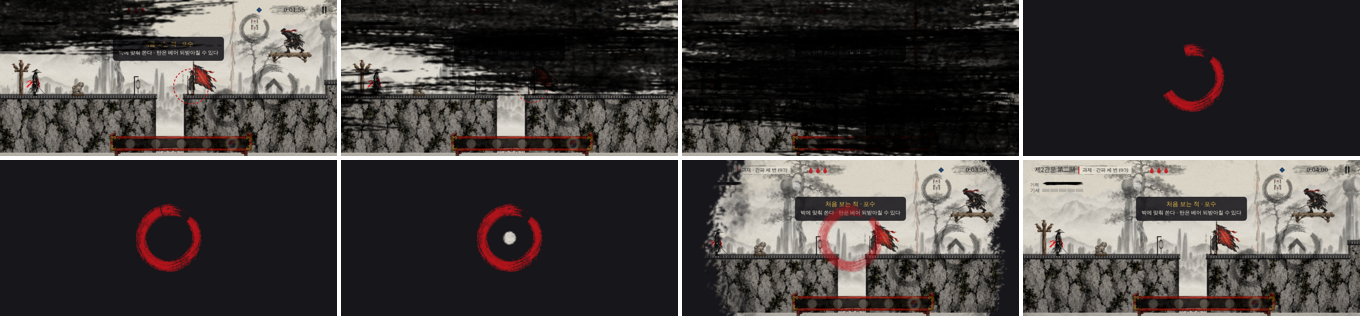
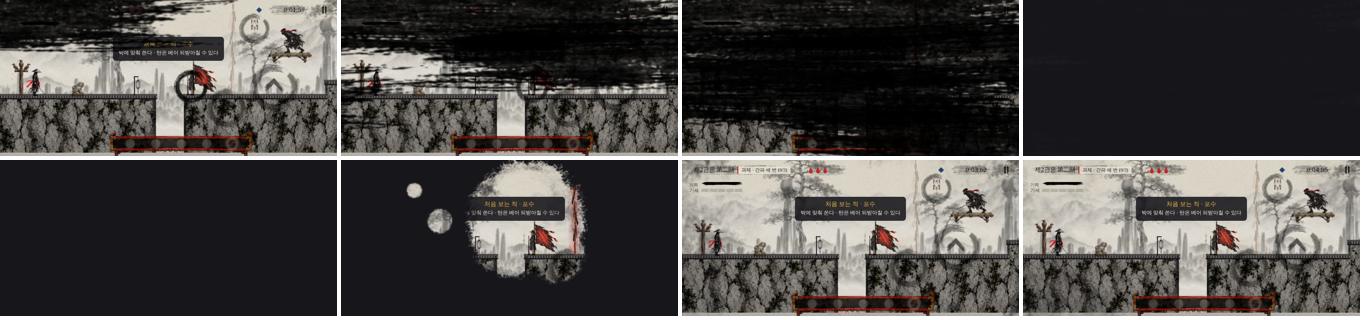
Drop the red 원상: transition is strokes then soak-away (1.0s), first-seen foe ring in ink
Claude-Session: https://claude.ai/code/session_01Rc1cVb1vkCQfdutHoe7fgf

diff --git a/js/game.js b/js/game.js
@@ -3382,9 +3382,9 @@ function render(rdt) {
   if (SPR.perkfx) for (const c of clones) { ctx.globalAlpha = .45 + .15 * Math.sin(performance.now() / 40); const cf = CF("clone"); if (cf && SPR[cf[0]]) { drawSprite(cf[0], cf[1], c.x, c.y, HERO_H * 1.15 / SPR[cf[0]].f[cf[1]].h, c.face < 0, .5, false, 1); ctx.globalAlpha = 1; continue; } drawSprite("perkfx", PF.clone, c.x, c.y, kOf("hero3", H3.idle, HERO_H * 1.08) * 1.1, c.face < 0, .5, false, 1); ctx.globalAlpha = 1; }
   drawVfx(pal, true, vw);   // effects that belong behind the body (the 납도 ink at the feet)
   drawPet(pal); drawAmmo();
-  { const rr = redRing(); for (const e of enemies) if (e.alive && e.introUntil > songPos) { const k = (e.introUntil - songPos) / 2.5, r = Math.max(e.w, e.h) * .8 + 8, cx = e.x + e.w / 2, cy = e.y + e.h / 2, draw = Math.min(1, (1 - k) * 4);   // 처음 보는 적: a red 원상 brushed round it
+  { const rf = SPR.ui && SPR.ui.f[0]; for (const e of enemies) if (e.alive && e.introUntil > songPos) { const k = (e.introUntil - songPos) / 2.5, r = Math.max(e.w, e.h) * .8 + 8, cx = e.x + e.w / 2, cy = e.y + e.h / 2, draw = Math.min(1, (1 - k) * 4);   // 처음 보는 적: an ink 원상 brushed round it
     ctx.globalAlpha = Math.min(1, k * 2) * .9;
-    if (rr) { ctx.save(); ctx.translate(cx, cy); ctx.rotate(songPos * .6); ctx.beginPath(); ctx.moveTo(0, 0); ctx.arc(0, 0, r * 1.2, -1.8, -1.8 + 6.283 * draw); ctx.closePath(); ctx.clip(); ctx.drawImage(rr, -r, -r, r * 2, r * 2); ctx.restore(); }
+    if (rf) { ctx.save(); ctx.translate(cx, cy); ctx.rotate(songPos * .6); ctx.beginPath(); ctx.moveTo(0, 0); ctx.arc(0, 0, r * 1.2, -1.8, -1.8 + 6.283 * draw); ctx.closePath(); ctx.clip(); ctx.drawImage(SPR.ui.img, rf.x, rf.y, rf.w, rf.h, -r, -r, r * 2, r * 2); ctx.restore(); }
     else { ctx.strokeStyle = SEAL; ctx.lineWidth = 2; ctx.beginPath(); ctx.arc(cx, cy, r, 0, 6.283); ctx.stroke(); }
     ctx.globalAlpha = 1; } }
   if (P && (state === "play" || state === "pause" || state === "result" || state === "dead")) drawPlayer(pal);
@@ -4653,25 +4653,23 @@ function drawHubLabels(pal) { // the names of the stations, painted on small boa
     else { ctx.fillStyle = near ? "rgba(195,22,28,.92)" : "rgba(23,22,26,.72)"; ctx.fillRect(x - w / 2, y - 10, w, 20); ctx.fillStyle = "#f3ede0"; }
     ctx.fillText(st.name, x, y + 1); }
   const dk = hubDeco(); if (LV.hub) for (let k = 0; k < HUB_SLOTS.length; k++) if (!dk.slots[k]) { const x = HUB_SLOTS[k].tx * T + 16, y = HUB_SLOTS[k].ty * T - 4, near = hubNear && hubNear.slot === k;
-    const rf = SPR.ui && SPR.ui.f[0], rr = near && redRing(); if (rf) { ctx.globalAlpha = near ? .9 : .3; if (rr) ctx.drawImage(rr, x - 20, y - 6, 40, 12); else ctx.drawImage(SPR.ui.img, rf.x, rf.y, rf.w, rf.h, x - 20, y - 6, 40, 12); ctx.globalAlpha = 1; }   // an empty spot: a flattened brush circle on the ground
+    const rf = SPR.ui && SPR.ui.f[0]; if (rf) { ctx.globalAlpha = near ? .85 : .3; ctx.drawImage(SPR.ui.img, rf.x, rf.y, rf.w, rf.h, x - 20, y - 6, 40, 12); ctx.globalAlpha = 1; }   // an empty spot: a flattened brush circle on the ground
     else { ctx.strokeStyle = near ? "rgba(195,22,28,.8)" : "rgba(23,22,26,.3)"; ctx.lineWidth = 1.5; ctx.beginPath(); ctx.ellipse(x, y, 18, 5, 0, 0, 7); ctx.stroke(); } }
 }
 // ---------- screens ----------
 // 먹 번짐 (scene change), painted with the game's own brushes: four dry-brush strokes lay ink across the page,
-// a red 원상 is drawn in one turn of the wrist, then the ink soaks away from the middle in ragged blots and the circle fades last
-let wipeRun = null, wipeRed = null;
-function redRing() { const ui = SPR.ui; if (!ui) return null; if (!wipeRed) { const f = ui.f[0], o = document.createElement("canvas"); o.width = f.w; o.height = f.h; const x = o.getContext("2d"); x.drawImage(ui.img, f.x, f.y, f.w, f.h, 0, 0, f.w, f.h); x.globalCompositeOperation = "source-in"; x.fillStyle = "#b8141b"; x.fillRect(0, 0, f.w, f.h); wipeRed = o; } return wipeRed; }   // the 원상 in 주홍
+// then the ink soaks away from the middle in ragged blots
+let wipeRun = null;
 function inkWipe() {
   const cvW = $("wipe"); if (!cvW || !cvW.getContext) return;
   const ui = SPR.ui, calm = settings.calm || matchMedia("(prefers-reduced-motion: reduce)").matches || !ui;
   const k = .6, w = Math.ceil(innerWidth * k), h = Math.ceil(innerHeight * k);
   cvW.width = w; cvW.height = h; const c = cvW.getContext("2d");
-  redRing();
   const R = Math.random, J = Array.from({ length: 40 }, () => R());
-  const D = calm ? .4 : 1.2, diag = Math.hypot(w, h), cx = w / 2, cy = h / 2;
+  const D = calm ? .4 : 1.0, diag = Math.hypot(w, h), cx = w / 2, cy = h / 2;
   const clamp = x => Math.min(1, Math.max(0, x)), easeO = x => 1 - Math.pow(1 - clamp(x), 3), easeIO = x => { x = clamp(x); return x < .5 ? 4 * x * x * x : 1 - Math.pow(-2 * x + 2, 3) / 2; };
   const strokes = [0, 1, 2, 3].map(j => ({ y: h * (j + .5) / 4 + (J[j] - .5) * h * .06, rot: (J[j + 4] - .5) * .09, dir: j % 2 ? -1 : 1, t0: j * .055, th: h / 4 * 2.3 }));
-  const blots = Array.from({ length: 6 }, (_, i) => ({ x: w * (.15 + J[i + 10] * .7), y: h * (.15 + J[i + 16] * .7), t0: .7 + J[i + 22] * .12, r: diag * (.18 + J[i + 28] * .14), rot: J[i + 34] * 6.28 }));
+  const blots = Array.from({ length: 6 }, (_, i) => ({ x: w * (.15 + J[i + 10] * .7), y: h * (.15 + J[i + 16] * .7), t0: .52 + J[i + 22] * .12, r: diag * (.18 + J[i + 28] * .14), rot: J[i + 34] * 6.28 }));
   const me = {}; if (wipeRun) cancelAnimationFrame(wipeRun.raf); wipeRun = me;
   const t0 = performance.now(); cvW.style.visibility = "visible";
   const sprite = (i, x, y, sw, sh, rot) => { const f = ui.f[i]; c.save(); c.translate(x, y); c.rotate(rot); c.drawImage(ui.img, f.x, f.y, f.w, f.h, -sw / 2, -sh / 2, sw, sh); c.restore(); };
@@ -4686,14 +4684,10 @@ function inkWipe() {
       const f = ui.f[2]; c.drawImage(ui.img, f.x, f.y, f.w, f.h, -len / 2, -st.th / 2, len, st.th); c.restore(); }
     const fill = easeO((t - .26) / .14); if (fill > 0) { c.globalAlpha = fill; c.fillStyle = "#17161a"; c.fillRect(0, 0, w, h); c.globalAlpha = 1; }   // the dry gaps fill as the ink spreads
     // 2. the ink soaks away: painted blots punched out of the page, the middle one first
-    if (t > .62) { c.globalCompositeOperation = "destination-out";
-      const q = easeIO((t - .62) / (D - .62 - .05)), s = q * diag * 1.5; if (s > 1) sprite(1, cx, cy, s, s * 1.03, J[38] * 6.28);
+    if (t > .45) { c.globalCompositeOperation = "destination-out";
+      const q = easeIO((t - .45) / (D - .45 - .05)), s = q * diag * 1.5; if (s > 1) sprite(1, cx, cy, s, s * 1.03, J[38] * 6.28);
       for (const b of blots) { const g = easeO((t - b.t0) / .35); if (g > 0) sprite(1, b.x, b.y, b.r * 2 * g, b.r * 2 * g, b.rot); }
       c.globalCompositeOperation = "source-over"; }
-    // 3. 원상: one red turn of the brush over the dark, lingering a moment over the new place
-    if (wipeRed && t > .3) { const q = easeO((t - .3) / .3), fade = 1 - clamp((t - .78) / .3), sz = Math.min(w, h) * .46;
-      c.save(); c.globalAlpha = fade; c.beginPath(); c.moveTo(cx, cy); c.arc(cx, cy, sz, -Math.PI / 2 - .25, -Math.PI / 2 - .25 + Math.PI * 2 * q); c.closePath(); c.clip();
-      c.drawImage(wipeRed, cx - sz / 2, cy - sz / 2 * 1.02, sz, sz * 1.02); c.restore(); }
     me.raf = requestAnimationFrame(frame);
   };
   me.raf = requestAnimationFrame(frame);

diff --git a/index.html b/index.html
@@ -11,14 +11,14 @@
 <meta name="apple-mobile-web-app-status-bar-style" content="black-translucent">
 <meta name="apple-mobile-web-app-title" content="천고">
 <link rel="manifest" href="manifest.webmanifest">
-<link rel="icon" href="icons/icon-192.png?v=10031100">
-<link rel="apple-touch-icon" href="icons/apple-touch-icon.png?v=10031100">
+<link rel="icon" href="icons/icon-192.png?v=10031200">
+<link rel="apple-touch-icon" href="icons/apple-touch-icon.png?v=10031200">
 <link rel="preconnect" href="https://fonts.googleapis.com">
 <link rel="preconnect" href="https://fonts.gstatic.com" crossorigin>
 <link rel="stylesheet" href="https://fonts.googleapis.com/css2?family=Song+Myung&display=swap">
 <!-- hanja: Song Myung has none, so Nanum Myeongjo is fetched for just the characters the game shows -->
 <link rel="stylesheet" href="https://fonts.googleapis.com/css2?family=Nanum+Myeongjo&display=swap&text=%E4%B8%80%E4%B8%89%E4%B8%8A%E4%B8%8B%E4%B8%8D%E4%B8%99%E4%B8%9E%E4%B8%AD%E4%B8%B8%E4%B8%B9%E4%B8%BB%E4%B9%99%E4%B9%9D%E4%BA%82%E4%BA%8C%E4%BA%94%E4%BA%95%E4%BA%AD%E4%BF%83%E4%BF%AE%E5%81%87%E5%81%9C%E5%83%A7%E5%85%89%E5%85%A5%E5%85%A9%E5%85%AD%E5%85%B5%E5%85%B7%E5%86%A4%E5%86%B6%E5%86%B7%E5%87%8C%E5%88%80%E5%88%83%E5%88%86%E5%88%87%E5%88%91%E5%88%9D%E5%88%BA%E5%89%9B%E5%8A%8D%E5%8A%9B%E5%8A%9F%E5%8B%95%E5%8B%9D%E5%8B%A2%E5%8D%83%E5%8D%B4%E5%8D%B7%E5%8E%84%E5%8F%8D%E5%8F%A3%E5%8F%AF%E5%90%8D%E5%90%B8%E5%91%B5%E5%91%BD%E5%9B%9B%E5%9B%9E%E5%9C%B0%E5%9D%90%E5%A0%82%E5%A1%94%E5%A1%9E%E5%A2%83%E5%A2%93%E5%A2%9C%E5%A3%81%E5%A3%87%E5%A3%9E%E5%A4%A7%E5%A4%A9%E5%A4%B7%E5%A5%A7%E5%A5%AA%E5%A5%B3%E5%A6%99%E5%AD%97%E5%AD%A4%E5%AE%88%E5%AE%97%E5%AF%82%E5%AF%9E%E5%B0%84%E5%B0%87%E5%B0%8E%E5%B0%BE%E5%B1%88%E5%B1%B1%E5%B6%BA%E5%B7%AB%E5%B7%AE%E5%B8%B3%E5%B8%B6%E5%B9%95%E5%B9%B3%E5%B9%BB%E5%BA%AB%E5%BC%93%E5%BC%95%E5%BD%88%E5%BD%B1%E5%BE%8B%E5%BE%90%E5%BE%91%E5%BF%83%E5%BF%85%E5%BF%B5%E6%80%92%E6%80%A5%E6%81%AF%E6%87%89%E6%88%90%E6%88%B0%E6%88%BF%E6%89%80%E6%89%87%E6%89%8B%E6%89%93%E6%8B%8D%E6%8B%94%E6%8C%81%E6%8D%AE%E6%8E%A5%E6%8E%A8%E6%8F%9B%E6%93%8A%E6%94%B6%E6%95%A3%E6%96%A4%E6%96%AC%E6%96%B7%E6%97%8B%E6%98%87%E6%98%8E%E6%98%9F%E6%9A%B4%E6%9B%89%E6%9B%B8%E6%9C%88%E6%9C%9B%E6%9C%AC%E6%9D%BF%E6%9E%97%E6%A1%B6%E6%A2%85%E6%A2%AF%E6%A5%AD%E6%A7%8C%E6%A7%8D%E6%A8%93%E6%A9%9F%E6%AD%A2%E6%AD%A3%E6%AD%A5%E6%AD%A6%E6%AD%B8%E6%AD%BB%E6%AE%98%E6%AE%BA%E6%AE%BF%E6%B0%A3%E6%B0%B4%E6%B1%BA%E6%B3%89%E6%B3%95%E6%B4%BE%E6%B5%81%E6%B7%B1%E6%B7%B5%E6%B8%A1%E6%BA%96%E6%BB%85%E6%BB%91%E6%BB%BF%E6%BD%9B%E6%BF%83%E6%BF%A4%E7%81%AB%E7%82%8E%E7%82%B8%E7%83%8F%E7%84%A1%E7%84%B0%E7%85%99%E7%85%A7%E7%86%9F%E7%86%B1%E7%87%92%E7%87%95%E7%88%86%E7%89%8C%E7%8B%82%E7%8B%90%E7%8B%99%E7%8D%A8%E7%8D%AC%E7%8E%84%E7%8E%8B%E7%92%B0%E7%94%95%E7%94%9F%E7%94%B0%E7%94%B2%E7%96%BE%E7%99%BB%E7%99%BC%E7%99%BD%E7%9B%9F%E7%9B%A1%E7%9B%B8%E7%9C%8B%E7%9C%BC%E7%9D%80%E7%9E%AC%E7%9F%AD%E7%9F%B3%E7%A0%B2%E7%A0%B4%E7%A2%91%E7%A5%9E%E7%A5%A0%E7%A7%98%E7%A9%BA%E7%AA%81%E7%AA%9F%E7%AB%B9%E7%AC%88%E7%AC%A6%E7%AC%AC%E7%AD%92%E7%AE%A1%E7%AE%AD%E7%B4%85%E7%B5%82%E7%B5%90%E7%B5%B2%E7%B5%B6%E7%B6%AD%E7%B6%B2%E7%B6%B5%E7%B7%A3%E7%B7%B4%E7%B8%9B%E7%B8%AE%E7%B9%A9%E7%BA%8C%E7%BD%A1%E7%BD%AE%E7%BE%85%E7%BE%A9%E7%BF%94%E7%BF%BC%E8%81%B2%E8%83%8E%E8%84%9A%E8%87%BA%E8%88%9E%E8%8A%B1%E8%90%AC%E8%90%BD%E8%93%84%E8%97%A5%E8%99%8E%E8%99%95%E8%99%9B%E8%99%9F%E8%9E%AD%E8%A1%80%E8%A1%8C%E8%A1%93%E8%A1%9D%E8%A1%A3%E8%A2%96%E8%A3%82%E8%A5%B2%E8%A6%81%E8%A7%92%E8%A7%A3%E8%AA%93%E8%AA%98%E8%AA%BF%E8%AD%B7%E8%B0%B7%E8%B1%B8%E8%B3%AD%E8%B5%A4%E8%B5%B0%E8%B6%8A%E8%B6%B3%E8%B7%9D%E8%B7%A1%E8%B7%AF%E8%B7%B3%E8%B8%8F%E8%BA%8D%E8%BA%AB%E8%BB%8A%E8%BB%8D%E8%BC%95%E8%BC%AA%E8%BF%8E%E8%BF%91%E8%BF%94%E8%BF%BD%E9%80%86%E9%80%90%E9%80%9F%E9%80%A3%E9%81%8E%E9%81%A0%E9%82%84%E9%87%8C%E9%87%8D%E9%87%91%E9%88%B4%E9%8A%80%E9%8A%83%E9%8D%8A%E9%8D%9B%E9%8E%96%E9%8E%AD%E9%8F%A1%E9%90%B5%E9%95%B7%E9%96%80%E9%96%83%E9%96%93%E9%96%A3%E9%97%9C%E9%98%B2%E9%99%8D%E9%99%A3%E9%99%A4%E9%9A%AA%E9%9B%99%E9%9B%A2%E9%9B%A8%E9%9B%B2%E9%9B%B6%E9%9B%B7%E9%9B%BB%E9%9C%86%E9%9C%87%E9%9C%A7%E9%9C%B9%E9%9D%82%E9%9D%88%E9%9D%91%E9%9D%9C%E9%9D%A2%E9%A2%A8%E9%A3%9B%E9%A3%9F%E9%A6%99%E9%A6%AC%E9%A8%B0%E9%AA%A8%E9%AC%BC%E9%AD%82%E9%AD%9A%E9%B3%A5%E9%B3%B6%E9%B5%B2%E9%B6%B4%E9%B7%B9%E9%BB%91%E9%BC%93%E9%BD%8A%E9%BE%8D">
-<link rel="stylesheet" href="style.css?v=10031100">
+<link rel="stylesheet" href="style.css?v=10031200">
 </head>
 <body>
   <div id="loading"><div class="ld-in"><b class="ld-t">천고</b><div class="ld-bar"><i id="ldBar"></i></div><span id="ldTxt">먹을 가는 중</span></div></div>
@@ -172,11 +172,11 @@
   (ld.querySelector(".ld-in") || ld).appendChild(b); }
   window.addEventListener("error", function () { setTimeout(rescue, 1500); }); setTimeout(rescue, 25000); })();
 </script>
-<script src="js/tuning.js?v=10031100"></script>
-<script src="js/content.js?v=10031100"></script>
-<script src="js/data.js?v=10031100"></script>
-<script src="js/music.js?v=10031100"></script>
-<script src="js/game.js?v=10031100"></script>
+<script src="js/tuning.js?v=10031200"></script>
+<script src="js/content.js?v=10031200"></script>
+<script src="js/data.js?v=10031200"></script>
+<script src="js/music.js?v=10031200"></script>
+<script src="js/game.js?v=10031200"></script>
 <script>
 if ("serviceWorker" in navigator && (location.protocol === "https:" || location.hostname === "localhost")) {
   window.addEventListener("load", () => navigator.serviceWorker.register("sw.js", { updateViaCache: "none" }).then(r => r.update()).catch(() => {}));

diff --git a/_review/r23_wipe.js b/_review/r23_wipe.js
@@ -1,5 +1,5 @@
 const { open } = require('./lib');
-const TS = [.06, .14, .24, .4, .55, .72, .9, 1.08];
+const TS = [.06, .14, .24, .36, .48, .62, .78, .92];
 (async () => { for (const vp of [{ width: 844, height: 390 }, { width: 390, height: 844 }]) { const { b, p, errs } = await open({ vp, mobile: true });
   await p.waitForTimeout(1200);
   for (const t of TS) { await p.evaluate(t => { window.__wipeT = t; __dbg.wipe(); }, t); await p.waitForTimeout(120); await p.screenshot({ path: `shots/wipe_${vp.width}_${t}.png` }); }

diff --git a/sw.js b/sw.js
@@ -1,6 +1,6 @@
 // 천고 service worker: network-first for the game files (so updates land on the next launch),
 // cache fallback for offline play, cache-first for Google Fonts.
-const CACHE = "chungo-v135";
+const CACHE = "chungo-v136";
 const ASSETS = "chungo-assets";   // pictures and sound: kept across versions, served at once, refreshed in the background
 const CORE = ["./", "index.html", "manifest.webmanifest",
   "icons/icon-192.png", "icons/icon-512.png", "icons/apple-touch-icon.png"];

diff --git a/_review/strip.py b/_review/strip.py
@@ -1,5 +1,5 @@
 from PIL import Image
-TS=[.06,.14,.24,.4,.55,.72,.9,1.08]
+TS=[.06,.14,.24,.36,.48,.62,.78,.92]
 for w in (844,390):
   ims=[Image.open(f'shots/wipe_{w}_{t}.png') for t in TS]; sc=.4 if w==844 else .3
   ims=[i.resize((int(i.width*sc),int(i.height*sc))) for i in ims]
